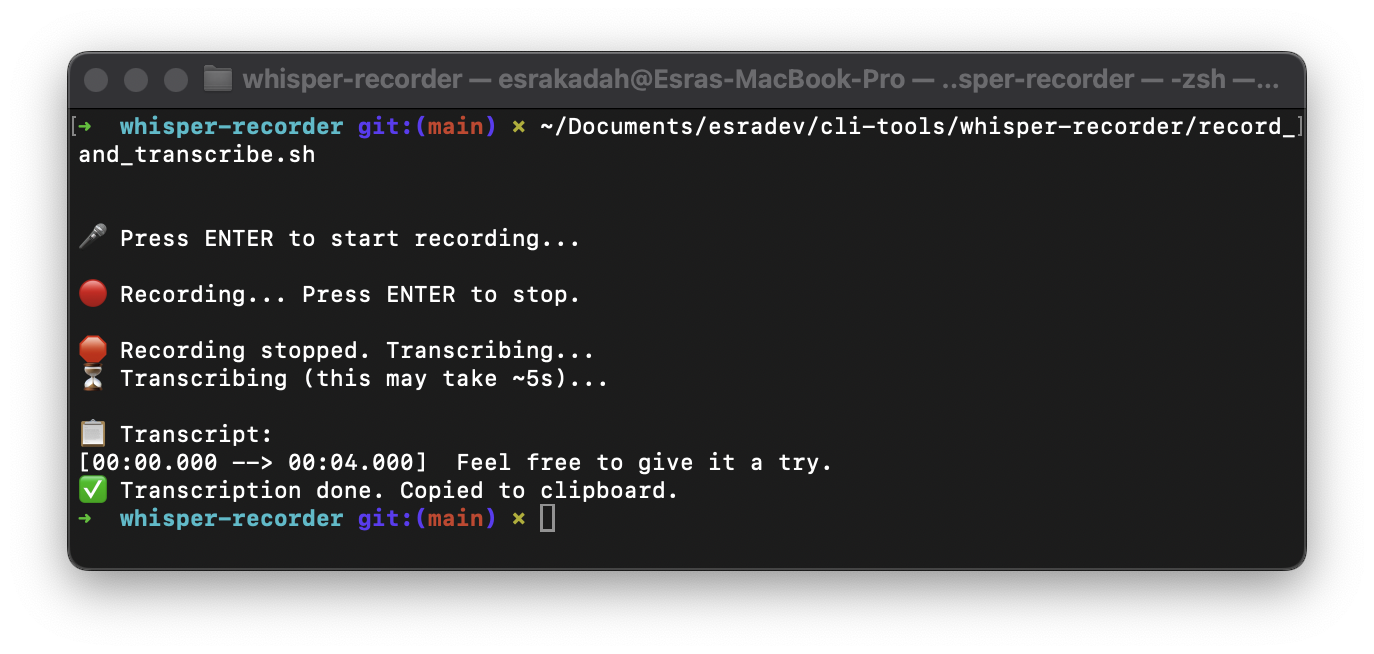
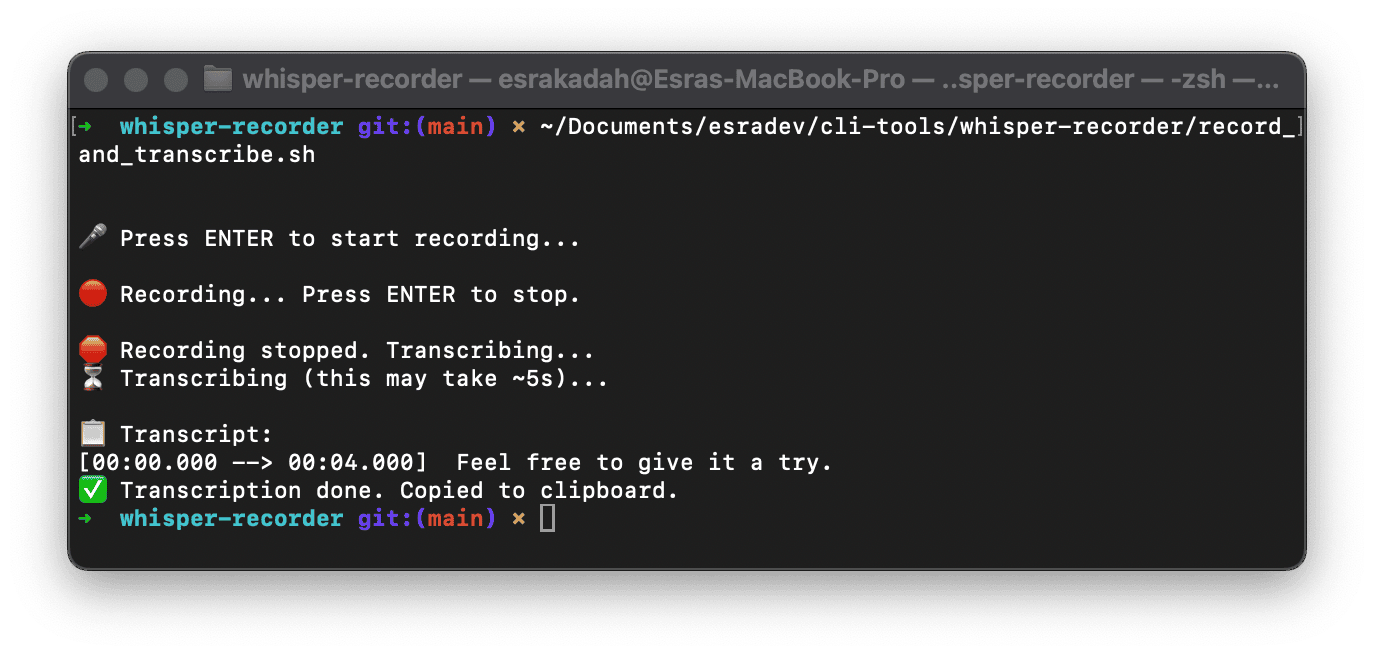
fix: make the recorder fail safely and tell the truth in the README
The script had no error handling: if Whisper was missing or broken, it
piped an empty string to pbcopy (wiping the clipboard) and still printed
"Transcription done". Found for real: a broken PyTorch in ~/whisper-env.

Script:
- set -euo pipefail, dependency checks, and no pbcopy unless Whisper
  produced text; the clipboard is untouched on any failure.
- --output_format txt and a mktemp folder removed on exit (--keep keeps
  it), instead of five output files in a ./tmp relative to the cwd.
- Records at 16 kHz, what Whisper expects (was 48 kHz).
- WHISPER_BIN, WHISPER_MODEL and WHISPER_LANG; language is detected by
  default instead of forced to English.
- Optional audio-file argument to transcribe an existing file.
- Removed dead code: an unused TRANSCRIPT capture, a no-op tail, and a
  grep for timestamps that only appear on stdout.
- Works with macOS's bash 3.2.

README: clone step, pinned openai-whisper 20250625 (20240930 no longer
builds with current setuptools), first-run model download noted, the
"~5s" claim replaced with a measured number, options table, a 2026 note
on faster alternatives. Screenshot compressed from 338 KB to 74 KB.

diff --git a/README.md b/README.md
@@ -1,93 +1,103 @@
-# 🎙 Esra Whisper Recorder (Minimal Version)
+# 🎙 Esra Whisper Recorder
 
-A lightweight, no-frills CLI voice recorder and transcriber using OpenAI Whisper + SoX for macOS.  
-Run → Speak → Get your text → Done.
+A one-file voice-to-text tool for the macOS command line: record with SoX, transcribe offline with
+[OpenAI Whisper](https://github.com/openai/whisper), get the text in your terminal and on your clipboard.
+
+Run → Speak → Press ENTER → Paste.
 
 ## ✅ What it does
 
-- Records your voice using SoX.
-- Transcribes using [Whisper](https://github.com/openai/whisper) (`small` model).
-- Copies the result to your clipboard (`pbcopy`).
-- Shows the text in your terminal output.
-- Requires **no GUI**, no manual file cleanup, no post-processing.
+- Records your voice with SoX (16 kHz mono, what Whisper expects).
+- Transcribes it with Whisper (`small` model by default, language detected automatically).
+- Prints the transcript and copies it to the clipboard with `pbcopy`.
+- Cleans up after itself: recordings live in a temporary folder that is deleted when the script exits.
+- If anything fails, it says so and **leaves your clipboard untouched**.
 
-## Demo
+```text
+🎤 Press ENTER to start recording...
+🔴 Recording... Press ENTER to stop.
+🛑 Recording stopped.
+⏳ Transcribing with the 'small' model...
 
-Here’s what it looks like:
+📋 Transcript:
+And so my fellow Americans, ask not what your country can do for you, ask what you can do for your country.
+✅ Copied to clipboard.
+```
 
-![CLI Demo](./whisper-demo.png)
+![CLI demo](./whisper-demo.png)
+
+*Screenshot of the first version. Today the timestamp line is gone and the wait depends on the model (see below).*
 
 ---
 
-## 🔐 Privacy & Offline Mode
+## 🔐 Privacy & offline mode
 
-Once installed, this tool runs entirely offline — no internet connection required for transcription.  
-Your voice stays on your machine, and nothing is sent to any external server.  
+After setup, transcription runs entirely on your Mac. Your voice is never sent anywhere.
 
-Perfect for private notes, journaling, or working on-the-go.
+The **first run of each model downloads it** (about 480 MB for `small`) into `~/.cache/whisper/`. From then
+on no network connection is needed.
 
 ---
 
-## 🛠 Setup (macOS only)
-
-1. **Install dependencies:**
+## 🛠 Setup (macOS)
 
 ```bash
 brew install sox ffmpeg
+git clone https://github.com/esrakadah/esra-whisper-recorder.git
+cd esra-whisper-recorder
+
 python3.11 -m venv ~/whisper-env
-source ~/whisper-env/bin/activate
-pip install --upgrade pip setuptools-rust wheel
-pip install git+https://github.com/openai/whisper.git
+~/whisper-env/bin/pip install --upgrade pip
+~/whisper-env/bin/pip install openai-whisper==20250625
 ```
 
-2. **Make your script executable:**
+Tested with Python 3.11 and `openai-whisper` 20250625. Older releases such as 20240930 no longer build with
+current setuptools.
+
+Then run it:
 
 ```bash
-chmod +x record_and_transcribe.sh
-```
-
-3. **Run the script:**
-
-```bash
-source ~/whisper-env/bin/activate
 ./record_and_transcribe.sh
 ```
 
+No `source activate` is needed: the script finds `whisper` on your `PATH`, or falls back to
+`~/whisper-env/bin/whisper`.
+
 ---
 
-## ⚙ How it works
+## ⚙ Options
 
 ```bash
-🎤 Press ENTER to start recording
-🔴 Recording... Press ENTER to stop
-🛑 Recording stopped. Transcribing...
-📋 Transcript: [shown in terminal]
-✅ Copied to clipboard
+./record_and_transcribe.sh                 # record, transcribe, copy
+./record_and_transcribe.sh memo.wav        # transcribe an existing file instead of recording
+./record_and_transcribe.sh --keep          # keep the recording and transcript; the folder is printed
+WHISPER_LANG=de ./record_and_transcribe.sh # force a language (en, de, tr, ...)
 ```
 
-All temporary files (`.wav`, `.txt`, `.json`, etc.) are stored in a `tmp/` folder.
-🧹 You can delete the `tmp/` folder anytime. It’s just scratch space.
+| Variable | Default | What it does |
+|---|---|---|
+| `WHISPER_MODEL` | `small` | `tiny` and `base` are faster, `medium` and `large` more accurate |
+| `WHISPER_LANG` | detected | Set it when Whisper guesses the wrong language for short clips |
+| `WHISPER_BIN` | `whisper` on `PATH`, else `~/whisper-env/bin/whisper` | Use another Whisper install |
 
+**Speed:** this is the reference Whisper, which runs on the CPU on Macs. An 11-second clip takes about
+20 seconds with `small` on an Apple Silicon Mac. Use `WHISPER_MODEL=base` or `tiny` when speed matters more
+than accuracy.
 
 ---
 
 ## 🔍 Why it's minimal
 
-This tool was made for personal use — quick idea capturing and voice transcription with no loops, no UI, and minimal dependencies.  
-If you'd like to add hotkey triggers, auto-cleanup, or loops, feel free to fork and iterate.
+Made for personal use: quick idea capture with no loops, no UI and two dependencies (SoX and Whisper).
 
-### Temporary Files
-
-All output files (audio and transcription artifacts) are stored inside a `tmp/` folder.
-You can delete this folder at any time — it won’t affect the tool.
-
-To ignore it from Git versioning, it's already listed in `.gitignore`.
+In 2026 there are faster options on Apple Silicon: [whisper.cpp](https://github.com/ggml-org/whisper.cpp)
+(Metal, no Python), [mlx-whisper](https://pypi.org/project/mlx-whisper/), or macOS's built-in dictation. This
+repository stays the minimal, readable reference.
 
 ---
 
 ## ✨ Community
 
-This project was released freely as a small helper tool.  
-Raise a PR if you have ideas — otherwise, use it as-is and enjoy.
+Small fixes are welcome as PRs; for anything bigger, see [CONTRIBUTING.md](./CONTRIBUTING.md).
 
 Built with love by [@esrakadah](https://github.com/esrakadah) 💛
